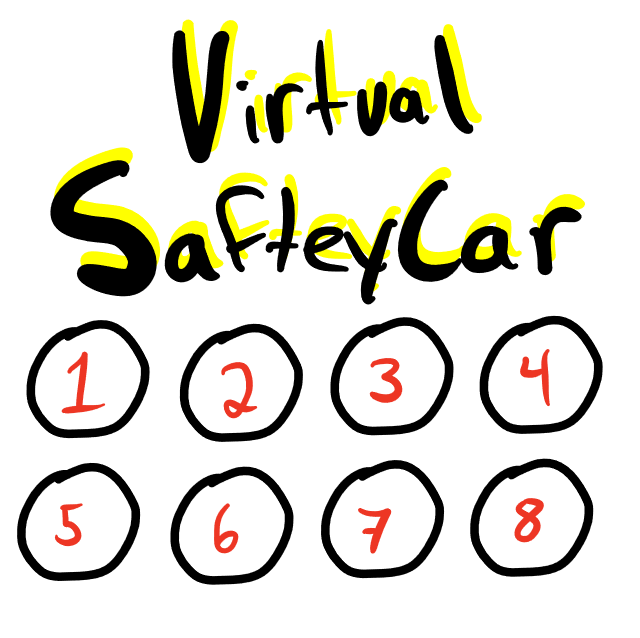
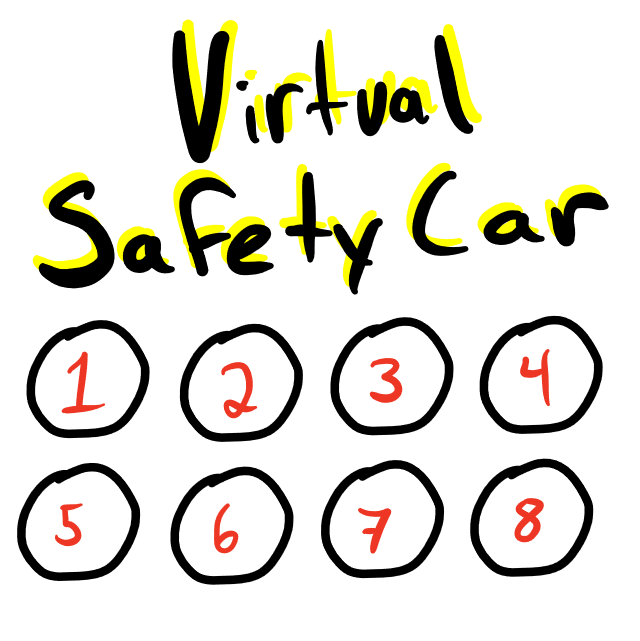
added name func and fixed spelling

diff --git a/bingo_maker.py b/bingo_maker.py
@@ -1,75 +1,91 @@
+# Author: Jonah Hood Blaxill
+# Date: 6 March 2023 
+
 from fpdf import FPDF
 import random
 import os
+import sys
+
+def main(argv = sys.argv):
+    #get the name from the command line
+    name = argv[1]
+
+    #create the pdf
+    pdf = FPDF(orientation = 'P', unit = 'in', format='Letter')
+    pdf.add_page()
+
+    #Place the template image to take the size of the page and center it
+    pdf.image('template.png', x = 0.25, y = 0.25, w = 8, h = 10.5, type = '', link = '')
 
 
-pdf = FPDF(orientation = 'P', unit = 'in', format='Letter')
-pdf.add_page()
+    # list of all the possible bingo squares locations and size of the square
+    # access is by LOCATIONS[square#][0] for x and LOCATIONS[square#][1] for y
+    # the square# is 0-24 for the 25 squares working left to right, top to bottom
+    LOCATIONS = [(0.32,2.45),(1.92,2.45),(3.51,2.45),(5.10,2.45),(6.69,2.45),
+                (0.32,4.1),(1.92,4.1),(3.51,4.1),(5.10,4.1),(6.69,4.1),
+                (0.32,5.75),(1.92,5.75),(3.51,5.75),(5.10,5.75),(6.69,5.75),
+                (0.32,7.45),(1.92,7.45),(3.51,7.45),(5.10,7.45),(6.69,7.45),
+                (0.32,9.1),(1.92,9.1),(3.51,9.1),(5.10,9.1),(6.69,9.1)]
+    SQUARE_SIZE = 1.5
 
-#Place the template image to take the size of the page and center it
-pdf.image('template.png', x = 0.25, y = 0.25, w = 8, h = 10.5, type = '', link = '')
+    # List of which squares are taken so we don't place two images in the same square
+    # access is by taken[square#] where square# is 0-24 for the 25 squares
+    # working left to right, top to bottom
+    taken = [False, False, False, False, False,
+            False, False, False, False, False,
+            False, False, False, False, False,
+            False, False, False, False, False,
+            False, False, False, False, False]
 
+    #Add name in the top left corner
+    pdf.set_font('helvetica', 'B', 12)
+    pdf.set_text_color(0,0,0)
+    pdf.text(0.32, 0.2, name)
 
-# list of all the possible bingo squares locations and size of the square
-# access is by LOCATIONS[square#][0] for x and LOCATIONS[square#][1] for y
-# the square# is 0-24 for the 25 squares working left to right, top to bottom
-LOCATIONS = [(0.32,2.45),(1.92,2.45),(3.51,2.45),(5.10,2.45),(6.69,2.45),
-             (0.32,4.1),(1.92,4.1),(3.51,4.1),(5.10,4.1),(6.69,4.1),
-             (0.32,5.75),(1.92,5.75),(3.51,5.75),(5.10,5.75),(6.69,5.75),
-             (0.32,7.45),(1.92,7.45),(3.51,7.45),(5.10,7.45),(6.69,7.45),
-             (0.32,9.1),(1.92,9.1),(3.51,9.1),(5.10,9.1),(6.69,9.1)]
-SQUARE_SIZE = 1.5
+    #place the racestarts image in the center block
+    pdf.image('imgs/racestarts.png', x = LOCATIONS[12][0], y = LOCATIONS[12][1], w = SQUARE_SIZE, h = SQUARE_SIZE, type = '', link = '')
+    taken[12] = True
 
-# List of which squares are taken so we don't place two images in the same square
-# access is by taken[square#] where square# is 0-24 for the 25 squares
-# working left to right, top to bottom
-taken = [False, False, False, False, False,
-         False, False, False, False, False,
-         False, False, False, False, False,
-         False, False, False, False, False,
-         False, False, False, False, False]
-
-#place the racestarts image in the center block
-pdf.image('imgs/racestarts.png', x = LOCATIONS[12][0], y = LOCATIONS[12][1], w = SQUARE_SIZE, h = SQUARE_SIZE, type = '', link = '')
-taken[12] = True
-
-#place the redflag, safteycar, vsc, images in random open locations
-required = ['imgs/redflag.png', 'imgs/safteycar.png', 'imgs/vsc.png']
-for imgLoc in required:
-    #pick a random square
-    square = random.randint(0,24)
-    #keep picking random squares until we find one that is not taken
-    while taken[square]:
+    #place the redflag, safteycar, vsc, images in random open locations
+    required = ['imgs/redflag.png', 'imgs/safetycar.png', 'imgs/vsc.png']
+    for imgLoc in required:
+        #pick a random square
         square = random.randint(0,24)
-    #place the image in the square
-    pdf.image(imgLoc, x = LOCATIONS[square][0], y = LOCATIONS[square][1], w = SQUARE_SIZE, h = SQUARE_SIZE, type = '', link = '')
-    #mark the square as taken
-    taken[square] = True
+        #keep picking random squares until we find one that is not taken
+        while taken[square]:
+            square = random.randint(0,24)
+        #place the image in the square
+        pdf.image(imgLoc, x = LOCATIONS[square][0], y = LOCATIONS[square][1], w = SQUARE_SIZE, h = SQUARE_SIZE, type = '', link = '')
+        #mark the square as taken
+        taken[square] = True
 
-#get a list of all the images in the imgs directory
-imgs = os.listdir('imgs')
-#remove the images we have already placed
-imgs.remove('racestarts.png')
-imgs.remove('redflag.png')
-imgs.remove('safteycar.png')
-imgs.remove('vsc.png')
+    #get a list of all the images in the imgs directory
+    imgs = os.listdir('imgs')
+    #remove the images we have already placed
+    imgs.remove('racestarts.png')
+    imgs.remove('redflag.png')
+    imgs.remove('safetycar.png')
+    imgs.remove('vsc.png')
 
-#place 21 random images in random open locations without duplicates
-for i in range(21):
-    #pick a random image
-    img = random.choice(imgs)
-    #pick a random square
-    square = random.randint(0,24)
-    #keep picking random squares until we find one that is not taken
-    while taken[square]:
+    #place 21 random images in random open locations without duplicates
+    for i in range(21):
+        #pick a random image
+        img = random.choice(imgs)
+        #pick a random square
         square = random.randint(0,24)
-    #place the image in the square
-    pdf.image('imgs/' + img, x = LOCATIONS[square][0], y = LOCATIONS[square][1], w = SQUARE_SIZE, h = SQUARE_SIZE, type = '', link = '')
-    #mark the square as taken
-    taken[square] = True
-    #remove the image from the list so we don't place it again
-    imgs.remove(img)
+        #keep picking random squares until we find one that is not taken
+        while taken[square]:
+            square = random.randint(0,24)
+        #place the image in the square
+        pdf.image('imgs/' + img, x = LOCATIONS[square][0], y = LOCATIONS[square][1], w = SQUARE_SIZE, h = SQUARE_SIZE, type = '', link = '')
+        #mark the square as taken
+        taken[square] = True
+        #remove the image from the list so we don't place it again
+        imgs.remove(img)
 
 
-#output the bingo card to the current directory
-pdf.output('bingo_card.pdf', 'F')
+    #output the bingo card to the current directory
+    pdf.output('bingo_card.pdf', 'F')
+
+if __name__ == '__main__':
+    main()
